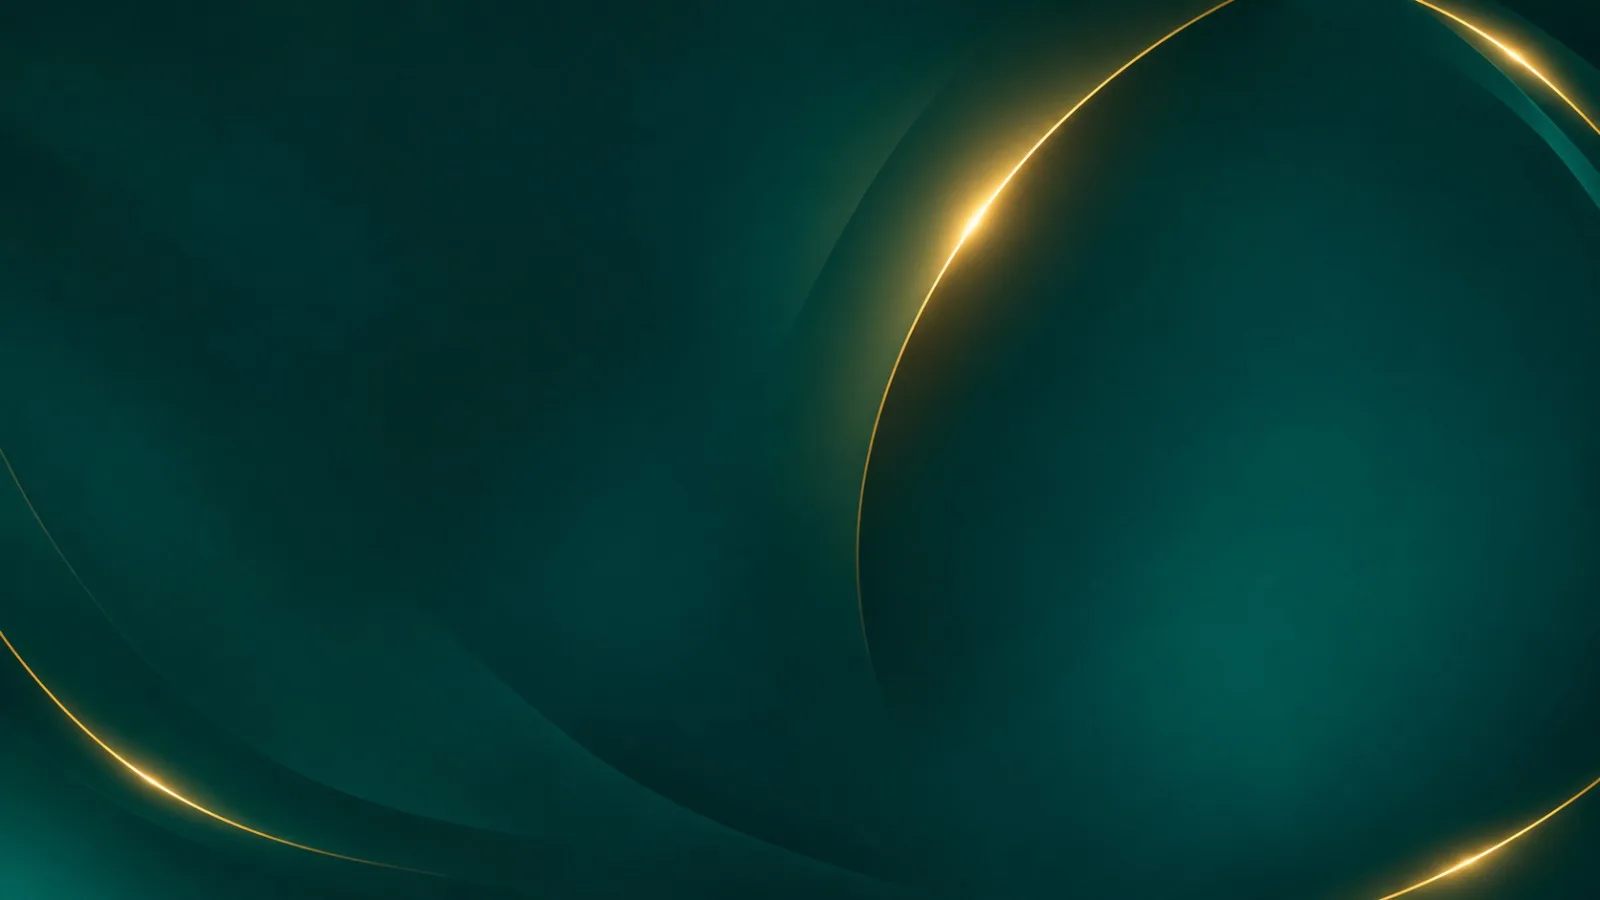
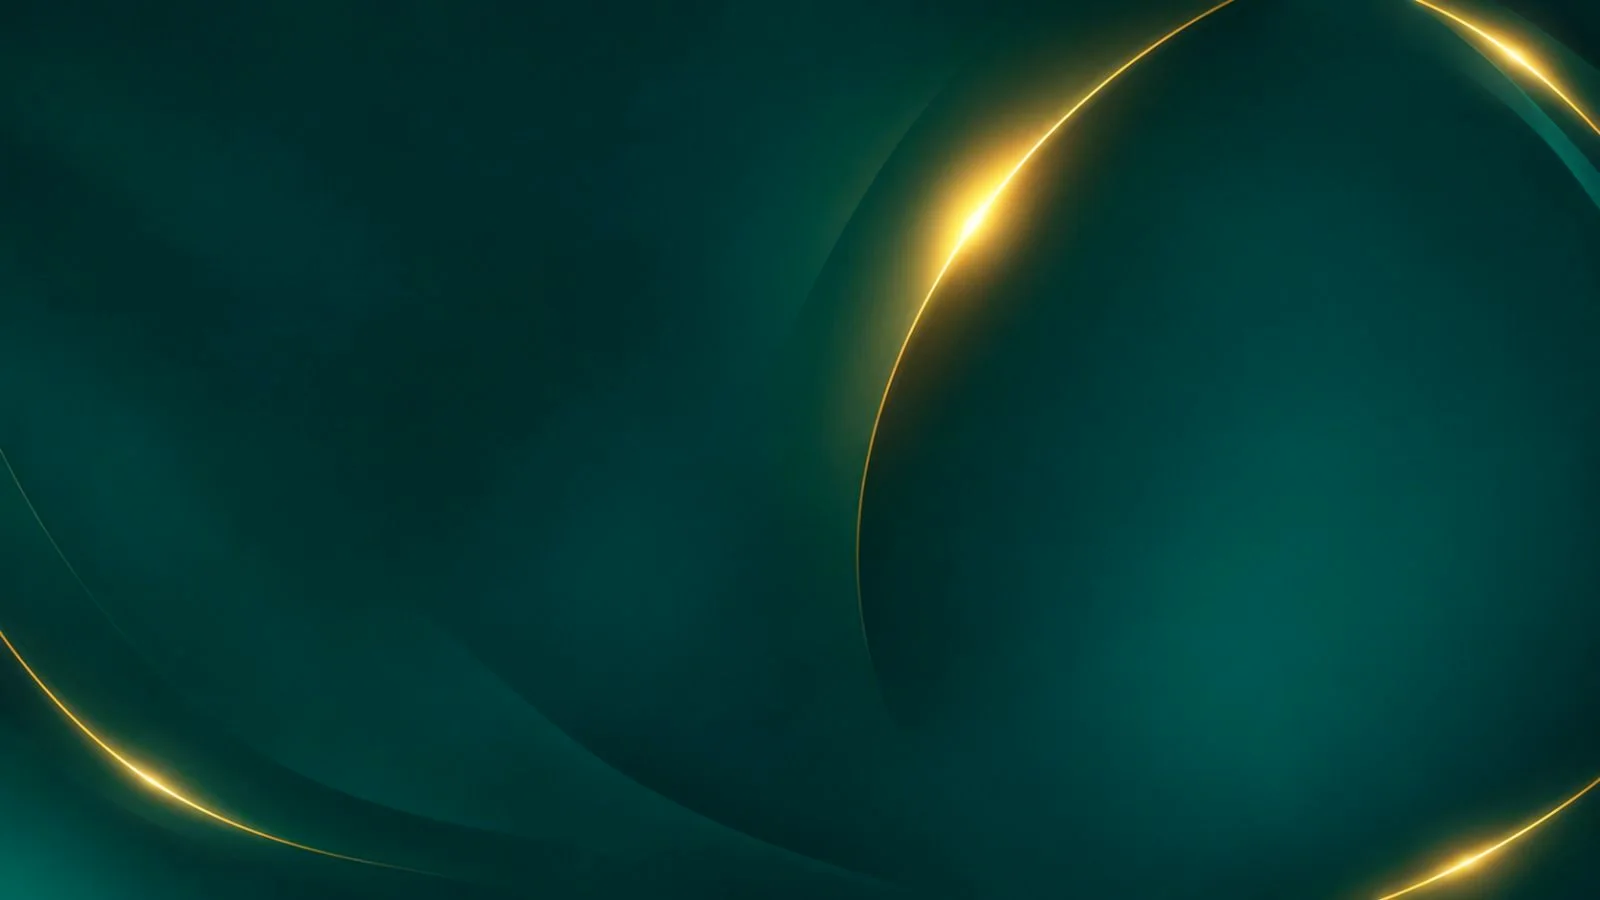
Dorado más brillante en las portadas y destello sobre la foto de Inicio

diff --git a/src/styles/redesign.css b/src/styles/redesign.css
@@ -2078,3 +2078,25 @@ html {
     background: linear-gradient(180deg, rgba(6, 42, 34, 0.85) 0%, transparent 35%);
   }
 }
+
+/* Destellos dorados encima de la foto: el arco brilla al pasar por el borde, como en el diseño */
+.home-hero-arc {
+  background: url("../assets/fondo-destellos.webp") center / cover no-repeat;
+  border: 0;
+  display: block;
+  height: auto;
+  inset: 0;
+  left: 0;
+  -webkit-mask-image: linear-gradient(90deg, #000 0%, #000 62%, transparent 74%);
+  mask-image: linear-gradient(90deg, #000 0%, #000 62%, transparent 74%);
+  mix-blend-mode: screen;
+  top: 0;
+  transform: none;
+  width: auto;
+}
+
+@media (max-width: 820px) {
+  .home-hero-arc {
+    display: none;
+  }
+}
